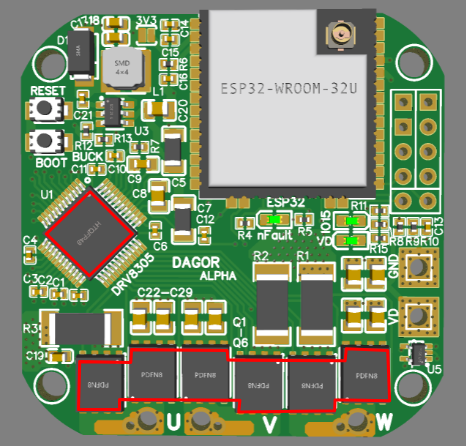
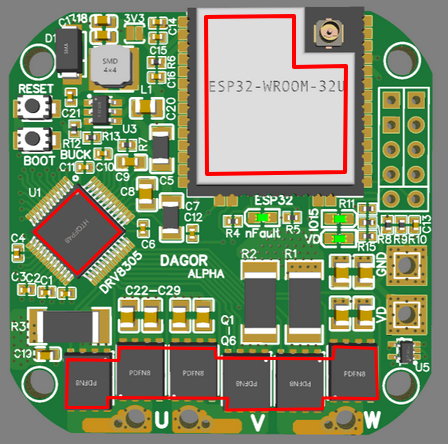
updated cooling pic

diff --git a/docs/hardware/cooling.md b/docs/hardware/cooling.md
@@ -10,7 +10,7 @@ permalink: /cooling
 
 The board's power output can be dramatically increased by either active cooling, through passive heat sinking or both.
 
-If designing a heat sink, the picture below shows the key components that require to be in contact with the sink, these components are the six power MOSFETs and the DRV8305 MOSFET driver. For active cooling, using a small fan to provide an airflow to these key components can greatly help. Combining both solutions will provide the maximum amount of cooling and thus the maximum amount of output power possible.
+If designing a heat sink, the picture below shows the key components that require to be in contact with the sink, these components are the six power MOSFETs, the DRV8305 MOSFET driver and the (optional) ESP32 microcontroller . For active cooling, using a small fan to provide an airflow to these key components can greatly help. Combining both solutions will provide the maximum amount of cooling and thus the maximum amount of output power possible.
 
 ![heat_sink_components](Images/heat_sink_components.PNG)
 
